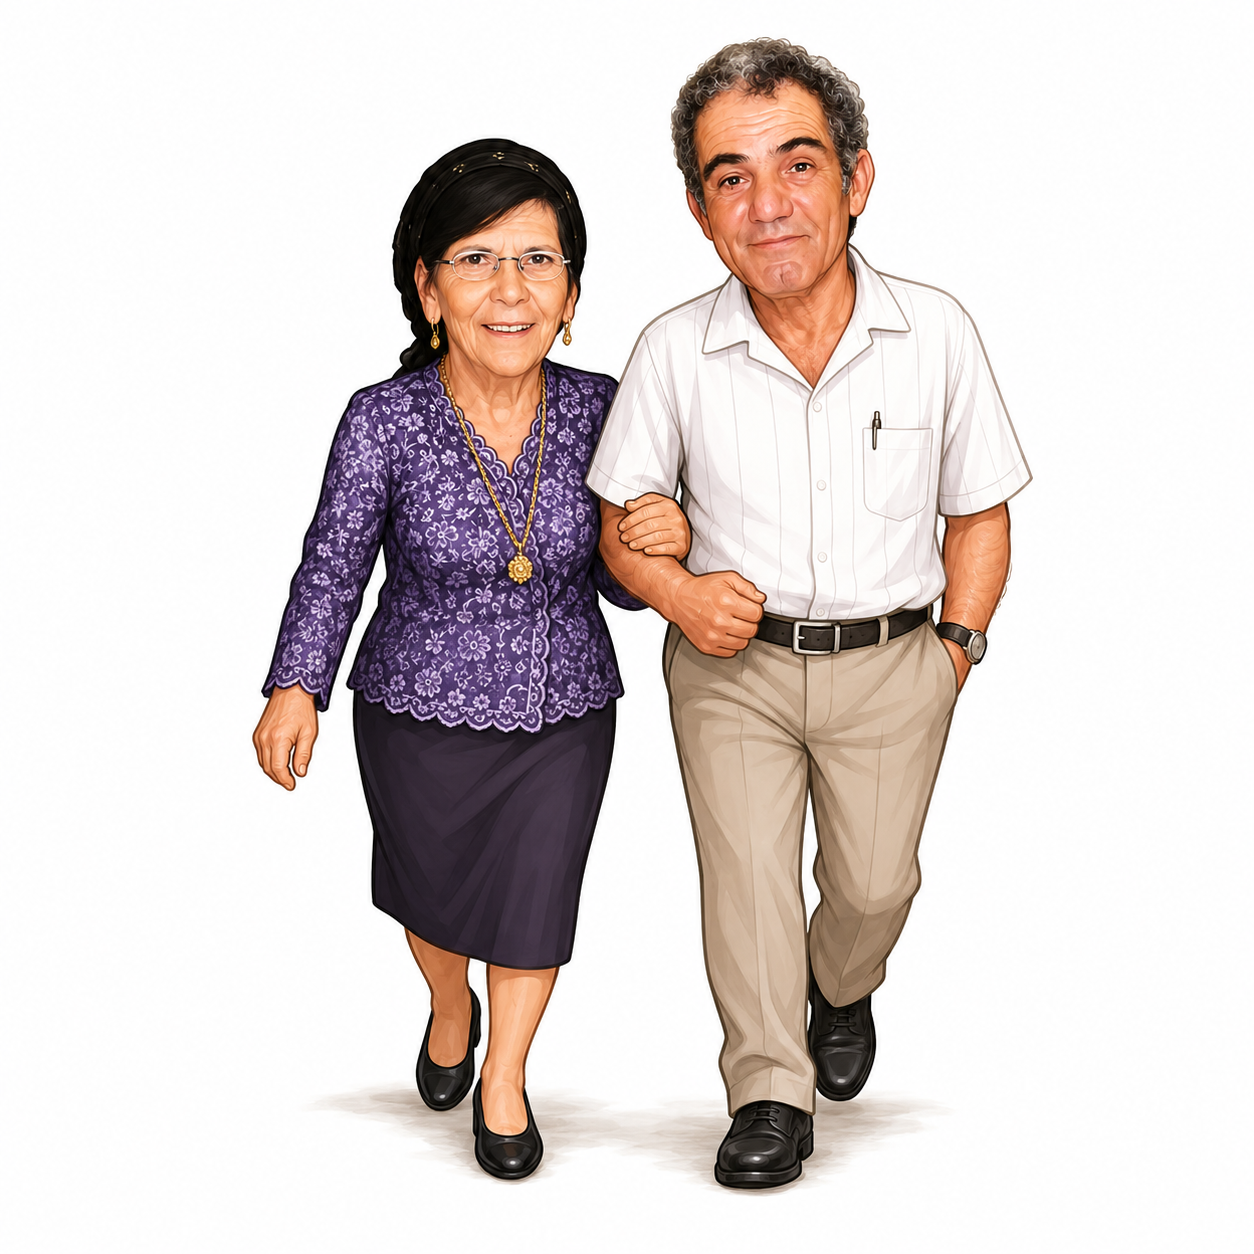
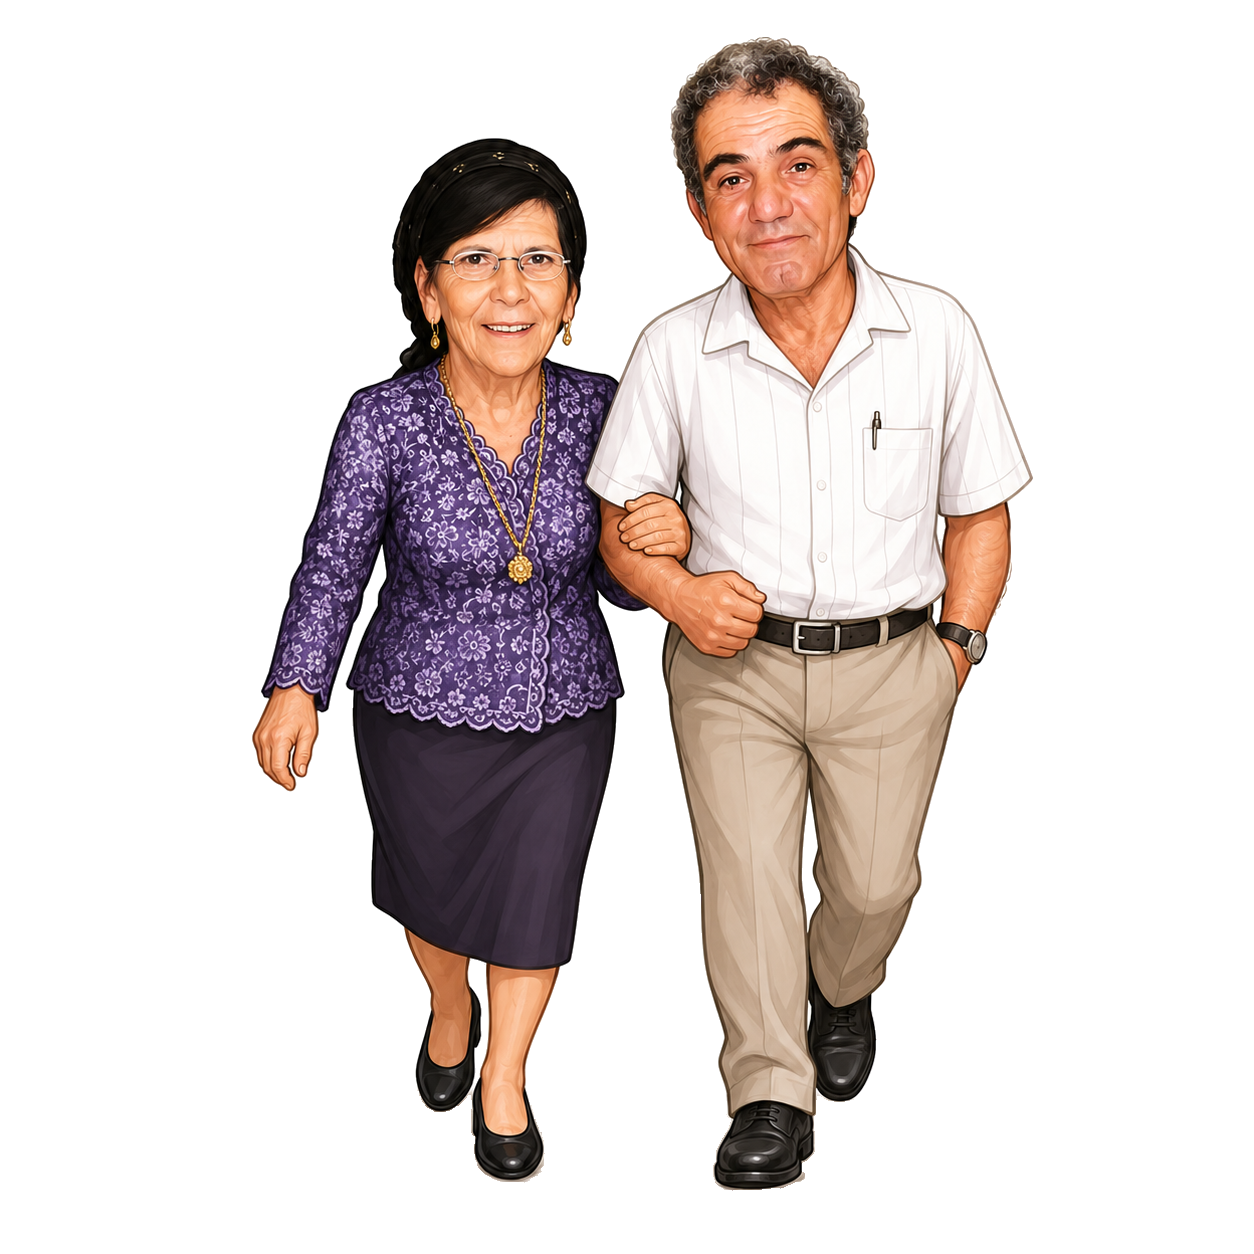
אייקוני האפליקציה ותמונת השיתוף — וה-PWA יורד מהשלב
עד עכשיו ה-favicon היה המשולש של Next משלד שלב 0, וקישור לאפליקציה
נשלח בוואטסאפ בלי תצוגה מקדימה בכלל.

הפיצול בין שני נכסי המותג הוא לפי מידה ולא לפי טעם: ב-32px התצלום
מתפרק לכתם בז' בלי מִתאר — טבעת השמנת שלו כמעט בערך של פס הלשוניות —
ואילו הסטנסיל מטושטש שם לא פחות אבל הדיסק הצהוב הוא מה שמזהים בשורת
לשוניות. לכן סמל לקטן, ותצלום לגדול (מסך הבית וקישור משותף), שם
הפנים נקראות והחום הוא כל הרעיון.

- `app/icon.png` + `icon1.png` (32, 192) מ-`emblem.png`
- `app/apple-icon.png` (180) ו-`app/opengraph-image.png` (1200×630)
  מ-`profile-image.png`, מורכבים על `--navy` ובלי ערוץ שקיפות: iOS
  מרנדר שחור במקום שקיפות באייקון מסך הבית
- `app/favicon.ico` נמחק — הכל דרך קונבנציית הקבצים של Next
- `scripts/gen-app-icons.mjs` — כדי שהגזירה לא תלך לאיבוד כשיוחלף התצלום

`metadataBase` נגזר מ-`VERCEL_PROJECT_PRODUCTION_URL` ולא מ-`VERCEL_URL`:
השני משתנה בכל דיפלוי, ואז `og:image` בקישור שנשלח מצביע על דיפלוי חולף.

בנוסף — **ה-PWA הוצא משלב 3 וטרם הוחלט אם ייבנה בכלל** (docs/02 §3.10).
ההתקנה לבדה קונה רק קיצור דרך; מה שהיה שווה משהו בשטח מחייב Service
Worker, ושם אין החלטת קאשינג טובה — מצב המשחק, הצ'אט והלידרבורד הם
אמת-שרת, וקבוצה שתקבל רמז ישן מהקאש קיבלה מידע שגוי. זה לא ה-PWA:
אין כאן manifest ואין SW, רק אייקונים ומטא-דאטה.

Changed region(s): [[0.4043, 0.8708, 0.7464, 0.9641], [0.2488, 0.8708, 0.4043, 0.933]]

diff --git a/web/app/layout.tsx b/web/app/layout.tsx
@@ -15,10 +15,38 @@ const secularOne = Secular_One({
   subsets: ["hebrew", "latin"],
 });
 
+const TITLE = "המירוץ למיליון — אימפריית כהן";
+const DESCRIPTION =
+  "אפליקציית המירוץ המשפחתי השנתי של משפחת כהן — מסורת של 20+ שנה ביום העצמאות";
+
+// כתובת מלאה נדרשת ל-og:image. בוורסל `VERCEL_PROJECT_PRODUCTION_URL` מצביע
+// על דומיין הפרודקשן גם מתוך preview — בשונה מ-`VERCEL_URL` שמשתנה לכל דיפלוי,
+// והיה גורם לקישור משותף להצביע על דיפלוי חולף
+const siteUrl =
+  process.env.NEXT_PUBLIC_SITE_URL ??
+  (process.env.VERCEL_PROJECT_PRODUCTION_URL
+    ? `https://${process.env.VERCEL_PROJECT_PRODUCTION_URL}`
+    : "http://localhost:3000");
+
+// האייקונים ותמונת השיתוף מגיעים מקונבנציית הקבצים של Next
+// (`app/icon.png`, `app/apple-icon.png`, `app/opengraph-image.png`)
+// ולכן לא מוגדרים כאן — ראו CLAUDE.md §13
 export const metadata: Metadata = {
-  title: "המירוץ למיליון — אימפריית כהן",
-  description:
-    "אפליקציית המירוץ המשפחתי השנתי של משפחת כהן — מסורת של 20+ שנה ביום העצמאות",
+  metadataBase: new URL(siteUrl),
+  title: TITLE,
+  description: DESCRIPTION,
+  openGraph: {
+    type: "website",
+    locale: "he_IL",
+    siteName: TITLE,
+    title: TITLE,
+    description: DESCRIPTION,
+  },
+  twitter: {
+    card: "summary_large_image",
+    title: TITLE,
+    description: DESCRIPTION,
+  },
 };
 
 export const viewport: Viewport = {

diff --git a/CLAUDE.md b/CLAUDE.md
@@ -23,7 +23,8 @@
 (מיגרציה `0010`, §4), הגלריה עלתה (מיגרציה `0012`, §10), התוכן המשפחתי
 הקבוע — משפטי סבא וסבתא והיכל התהילה — קיבל מְכָלים (מיגרציה `0014`, §11),
 ומסך הזוכים נדלק (מיגרציה `0015`, §12).
-מה שנשאר בשלב: **PWA** וליטוש/אנימציות.
+מה שנשאר בשלב: **ליטוש ואנימציות**. ה-PWA הוצא מהשלב — טרם הוחלט אם
+בכלל ייבנה, והוא אחרון בתור (docs/02 §3.10). אל תתחיל אותו מיוזמתך.
 
 ## 1. תמיד תתחיל מכאן — מסמכי התכנון (`docs/`)
 
@@ -390,3 +391,36 @@ opacity ב-oklab מול `transparent`, ומעל הרקע הקוסמי התוצא
 
 היכל התהילה (§11) נכתב ב-`declare_winner` ולא ב-`finish_race` — הוא
 נוצר ברגע ההכרזה, וה-upsert עדיין לא נוגע ב-`photo_url`.
+
+## 13. אייקוני האפליקציה ותמונת השיתוף
+
+```
+web/public/brand/emblem.png          הסמל: סבא וסבתא בסטנסיל שחור על צהוב
+web/public/brand/profile-image.png   התצלום עצמו
+web/scripts/gen-app-icons.mjs        גוזר את כל הנכסים מהשניים האלה
+web/app/icon.png, icon1.png          favicon (32 ו-192)
+web/app/apple-icon.png               אייקון מסך הבית (180)
+web/app/opengraph-image.png(+.alt.txt)  תצוגה מקדימה לקישור משותף (1200×630)
+```
+
+הכל דרך **קונבנציית הקבצים של Next** — הקבצים עצמם ב-`app/` הם ההגדרה,
+ולכן אין `icons` ב-`metadata` והגדרה כזו רק תתנגש. `app/favicon.ico` נמחק:
+הוא היה **המשולש של Next** מאז שלד שלב 0 ומעולם לא הוחלף.
+
+⚠ **הפיצול בין שני הנכסים הוא לפי מידה, לא לפי טעם.** בתצוגת 32px
+התצלום מתפרק לכתם בז' חיוור בלי מִתאר — טבעת השמנת שלו כמעט בערך של
+פס הלשוניות הבהיר בדפדפן, והאייקון נעלם. הסטנסיל מטושטש שם לא פחות,
+אבל **הדיסק הצהוב** הוא מה שמזהים בשורת לשוניות. לכן: סמל לקטן, תצלום
+לגדול (מסך הבית, קישור משותף) — שם הפנים נקראות והחום הוא כל הרעיון.
+
+⚠ **לאייקון מסך הבית ולתמונת השיתוף אין ערוץ שקיפות** (`removeAlpha`
+בסקריפט). iOS לא מכבד שקיפות באייקון ומרנדר שחור במקומה, וחלק
+מהפלטפורמות עושות אותו דבר לתצוגה המקדימה. שניהם מורכבים על `--navy`,
+והתוצאה היא מדליון חם על הרקע הקוסמי.
+
+⚠ **`metadataBase` נגזר מ-`VERCEL_PROJECT_PRODUCTION_URL` ולא מ-`VERCEL_URL`.**
+השני משתנה בכל דיפלוי, ואז `og:image` בקישור שנשלח בוואטסאפ מצביע על
+דיפלוי חולף שיפוג. `NEXT_PUBLIC_SITE_URL` גובר על שניהם כשיהיה דומיין.
+
+**זה לא ה-PWA.** אין כאן `manifest` ואין Service Worker — רק אייקונים
+ומטא-דאטה. ההחלטה על ה-PWA עדיין פתוחה, ראו docs/02 §3.10.

diff --git a/docs/02-architecture.md b/docs/02-architecture.md
@@ -146,10 +146,26 @@ flowchart TB
 - הטבלה הזו **לא משתתפת בשום החלטת משחק** — פתיחת משימה נשענת רק על
   הקואורדינטות שנשלחות ל-`arrive_at_station` ומאומתות שם (§3.1)
 
-### 3.10 PWA
+### 3.10 PWA — נדחה, טרם הוחלט אם בכלל
 
-מותקנת כאייקון על מסך הבית, מסך מלא, שמירת מצב בסיסית בזמן קליטה חלשה בשטח.
-לא נדרש אופליין מלא — המירוץ מחייב רשת לצ'אט וללידרבורד ממילא.
+התכנון המקורי: מותקנת כאייקון על מסך הבית, מסך מלא, שמירת מצב בסיסית
+בזמן קליטה חלשה בשטח; בלי אופליין מלא — המירוץ מחייב רשת לצ'אט
+וללידרבורד ממילא. **הפיצ'ר הוצא משלב 3 ולא נקבע לו שלב חלופי** —
+הוא ייבחן אחרון, אחרי שכל השאר עומד, ויכול להיות שלא ייבנה כלל.
+
+**למה נדחה:** ההתקנה עצמה זולה (`manifest` + אייקונים), אבל היא לבדה
+לא קונה יותר מקיצור דרך על המסך. מה שכן היה שווה משהו בשטח — להחזיק
+את מסך המשחק בקליטה חלשה — מחייב Service Worker, ואיתו החלטת קאשינג
+שאין לה תשובה טובה: מצב המשחק, הצ'אט והלידרבורד הם אמת-שרת בלבד
+(§3.1, §3.3), וקבוצה שתקבל מהקאש רמז ישן או דירוג ישן קיבלה מידע
+שגוי — מצב גרוע יותר מ"אין כרגע קליטה". הגבול היחיד שבטוח לקאשר הוא
+ה-shell, הפונטים ונכסי המותג, וזה בדיוק החלק שלא מציל אף אחד באמצע מסלול.
+
+**מה חייב להיות מוכרע לפני שנוגעים בזה:**
+
+1. האם ההתקנה לבדה, בלי Service Worker, שווה את התחזוקה.
+2. אם כן — לקבוע כאן במפורש ש-SW מקאשר **shell בלבד**, ושכל בקשת
+   נתונים היא network-only שנופלת לשגיאה ולא לקאש.
 
 ### 3.11 הכרזת זוכים ≠ סיום מירוץ
 

diff --git a/docs/05-roadmap.md b/docs/05-roadmap.md
@@ -53,13 +53,16 @@
   שלחץ. באותה מיגרציה (`0015`) **הופרדה הכרזת הזוכים מסיום המירוץ**:
   עד עכשיו הן היו לחיצה אחת, וההכרזה נעלה את כל מי שעוד היה בשטח
   (ראו [02](02-architecture.md) §3.11)
-- ליטוש: אנימציות, PWA להתקנה על מסך הבית
+- ליטוש: אנימציות ומעברים, בעיקר על המסכים החדשים (זוכים, גלריה, היכל התהילה)
 
 ## שלב 4 — עתידי 🚀
 - **מחולל חידות AI** (Claude API) על בסיס דוגמאות משנים קודמות
 - שיחה קולית קבוצתית (WebRTC / LiveKit)
 - התראות Push
 - סטטיסטיקות משפחתיות מצטברות
+- **PWA להתקנה על מסך הבית** — הוצא משלב 3 ו**טרם הוחלט אם בכלל ייבנה**.
+  אחרון בתור: ייבחן רק אחרי שכל השאר עומד. הנימוק המלא —
+  [02](02-architecture.md) §3.10
 
 ## המלצה לצעד הראשון
 לאשר את התוכנית ← להקים את שלב 0 ← לבנות את שלב 1 מקצה לקצה ←
